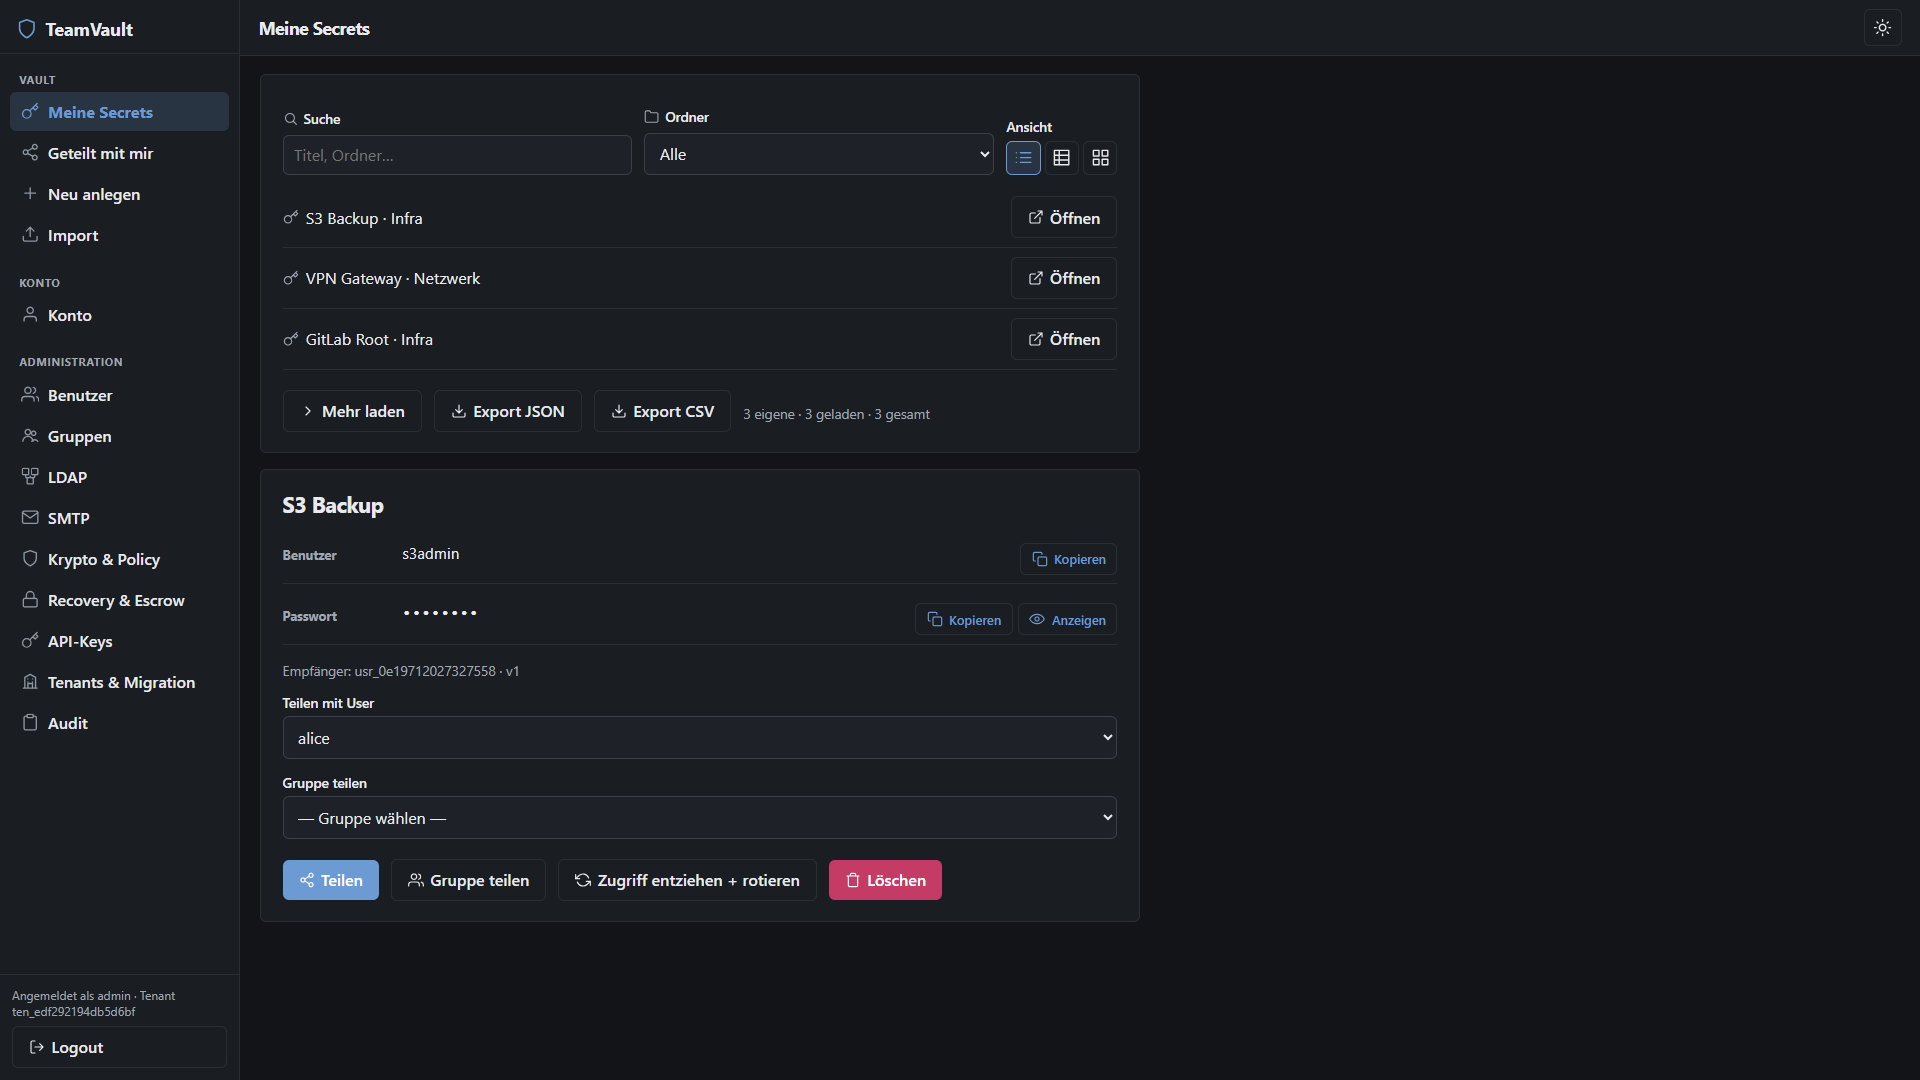
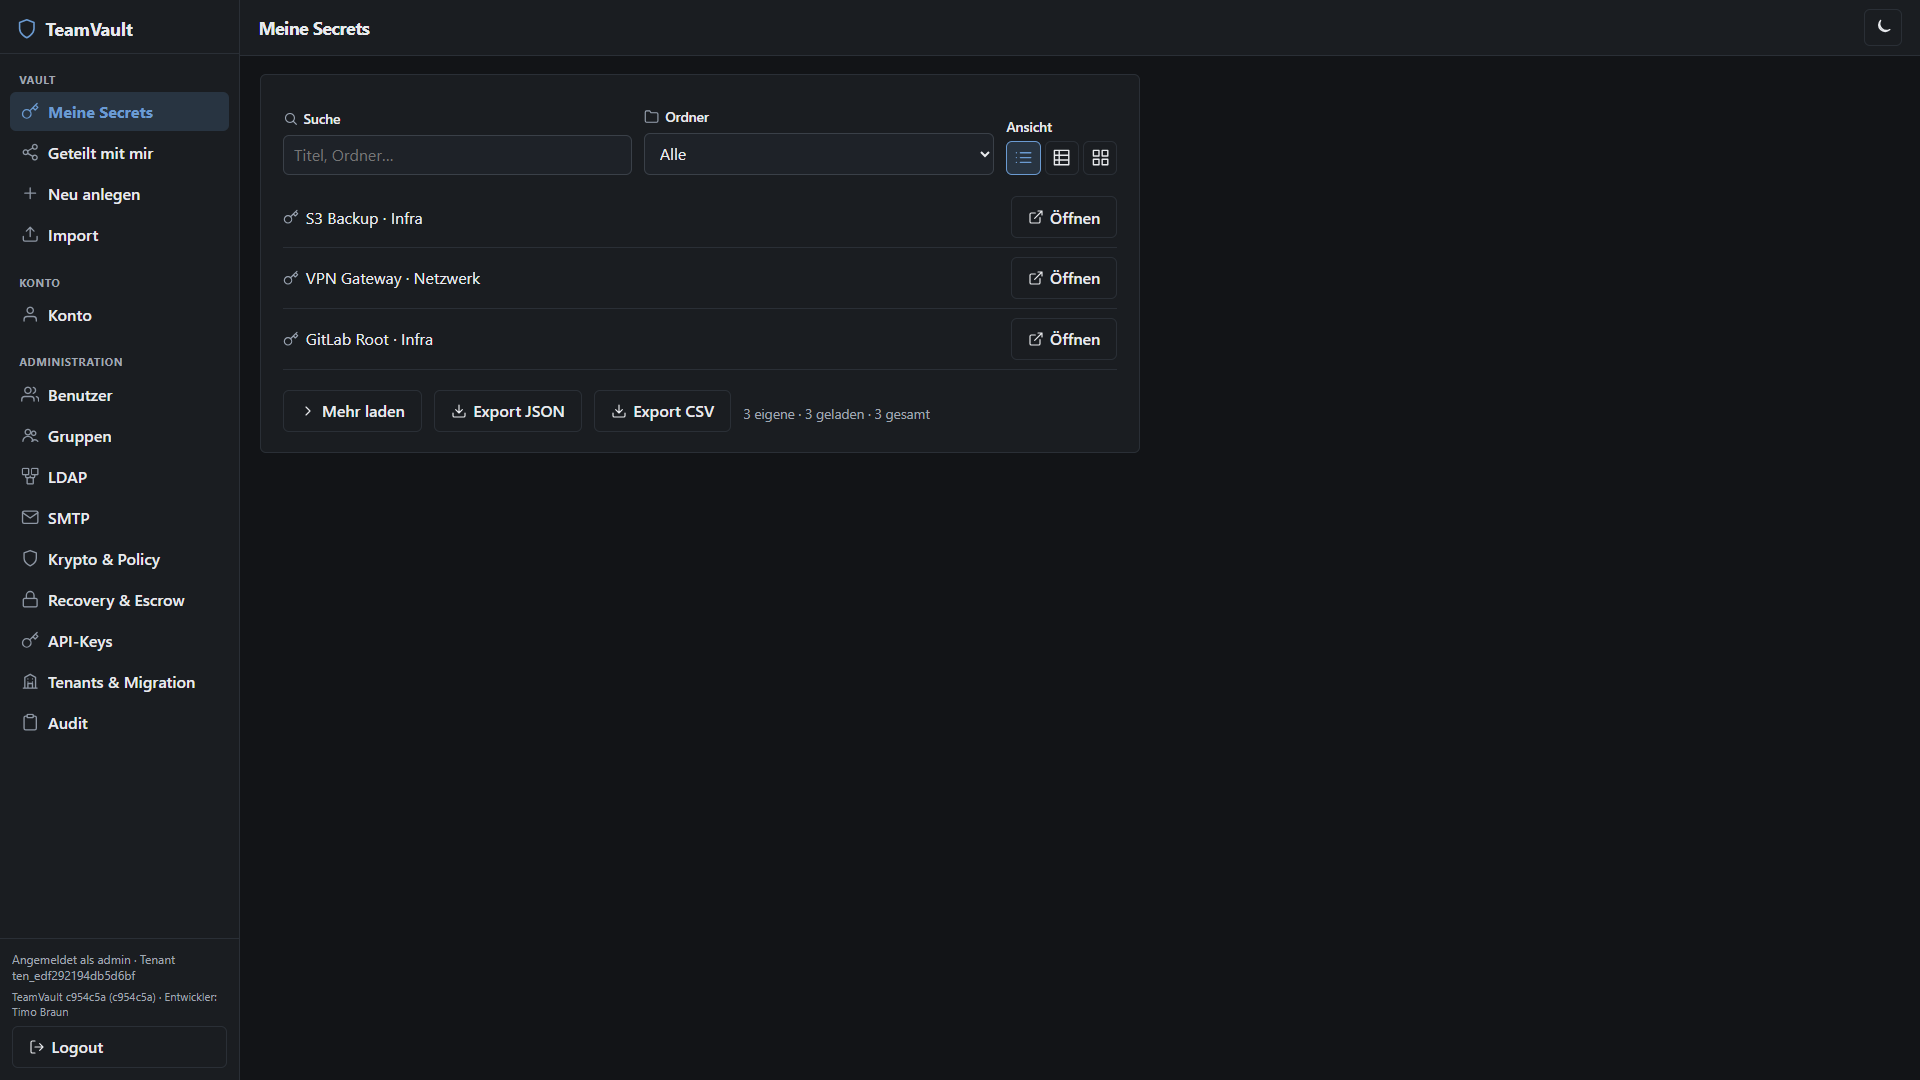
Refresh docs screenshots for version credit and cleaned UI copy.
Show the developer/version footer and remove leftover OQ wording from guide images.

diff --git a/docs/user-guide.md b/docs/user-guide.md
@@ -22,6 +22,8 @@ Der Server sieht niemals Ihr Master-Passwort und niemals Klartext-Secrets (Zero-
 2. **Tenant-Slug**, Username, Login-Passwort (TOTP falls aktiv)
 3. Optional **Passkey** statt Passwort (wenn registriert)
 
+Hinweis unter dem Formular: Version und Entwickler. Passkeys betreffen nur den Login — der Vault braucht weiterhin das Master-Passwort.
+
 Nach dem Login (oder nach Onboarding) erscheint **Vault entsperren**:
 
 ![Vault entsperren](images/vault-unlock.png)
